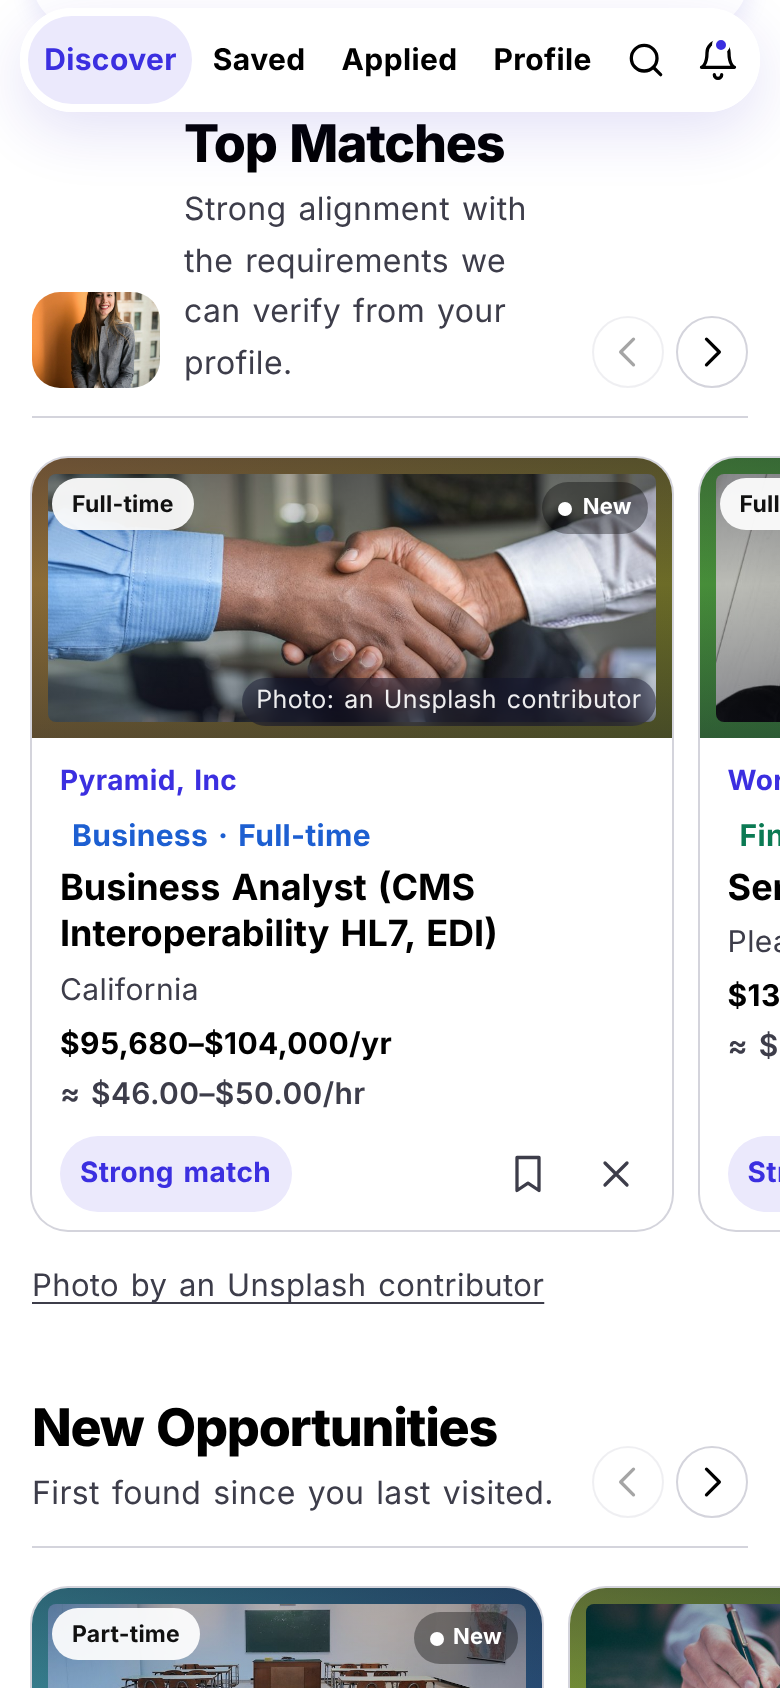
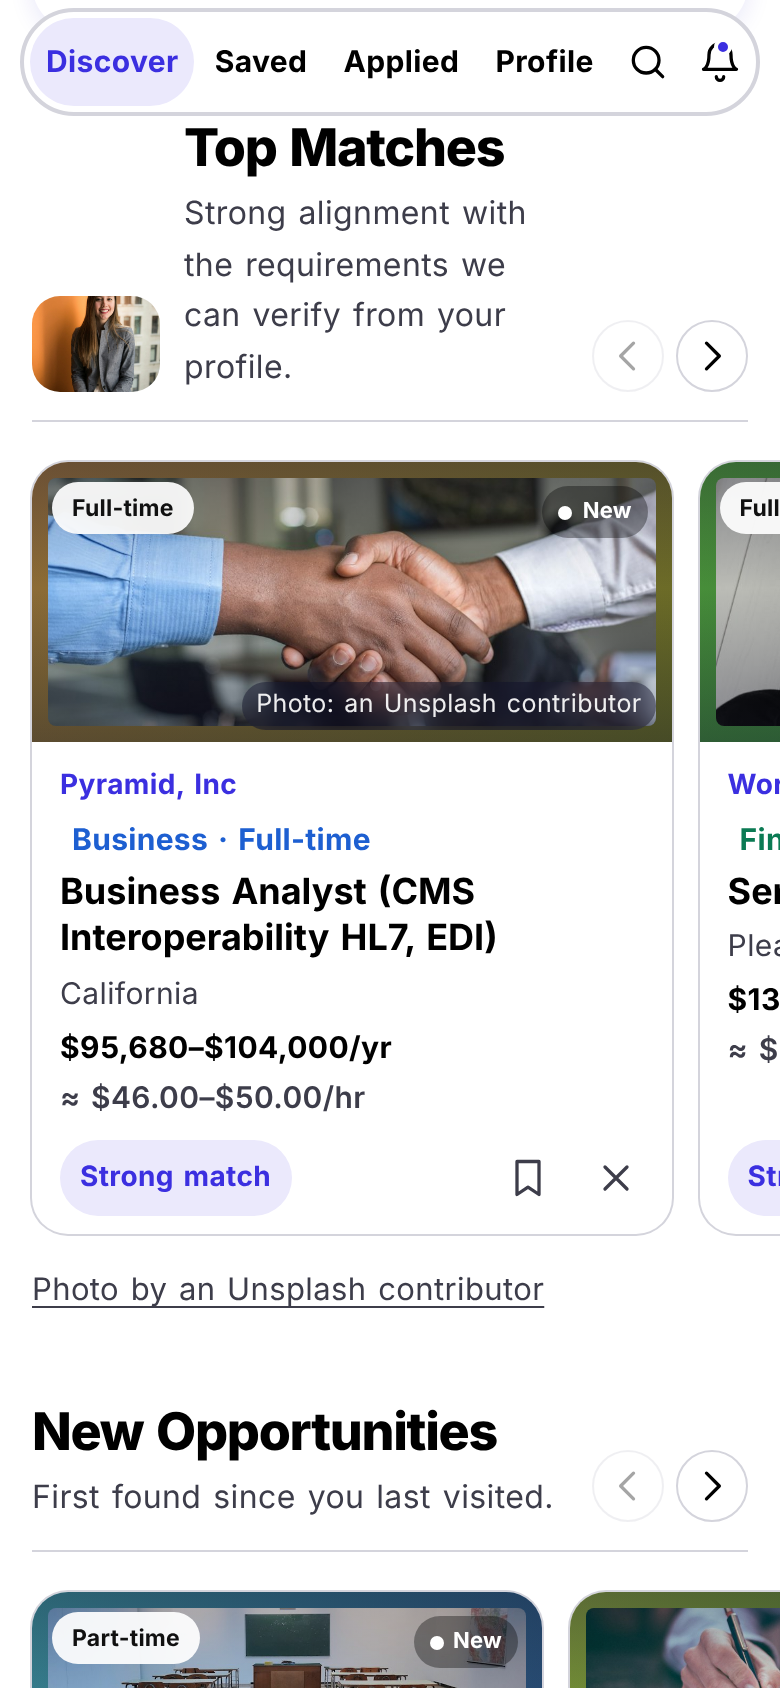
Remove the purple-blue header strip; plain page with dark text and an outlined top bar
Claude-Session: https://claude.ai/code/session_012PdbmGLYxedDNTKbujHA59

diff --git a/public/index.html b/public/index.html
@@ -5,10 +5,11 @@
   <meta name="viewport" content="width=device-width, initial-scale=1, viewport-fit=cover">
   <meta name="color-scheme" content="light dark">
   <title>Jobgeek</title>
-  <meta name="theme-color" content="#2a1fc4">
+  <meta name="theme-color" content="#ffffff" media="(prefers-color-scheme: light)">
+  <meta name="theme-color" content="#000000" media="(prefers-color-scheme: dark)">
   <meta name="apple-mobile-web-app-capable" content="yes">
   <meta name="mobile-web-app-capable" content="yes">
-  <meta name="apple-mobile-web-app-status-bar-style" content="black-translucent">
+  <meta name="apple-mobile-web-app-status-bar-style" content="default">
   <meta name="apple-mobile-web-app-title" content="Jobgeek">
   <link rel="manifest" href="manifest.webmanifest">
   <link rel="icon" type="image/png" sizes="32x32" href="icons/favicon-32.png">

diff --git a/public/css/modern.css b/public/css/modern.css
@@ -306,3 +306,10 @@ html { background: linear-gradient(#2a1fc4, #2a1fc4) top / 100% env(safe-area-in
   .topbar { padding-top: 4px; }
   body::before { height: calc(250px + env(safe-area-inset-top, 0px)); }
 }
+
+/* No coloured header strip: plain page background, dark text, white pill bar with a light outline */
+body::before { display: none !important; }
+html { background: var(--bg) !important; }
+.topbar, .topbar .eyebrow, h1.page, .topbar .back, .back { color: var(--ink) !important; }
+.topbar .eyebrow { opacity: .85 !important; }
+.dock { background: var(--surface) !important; border: 2px solid var(--line) !important; box-shadow: none; }
